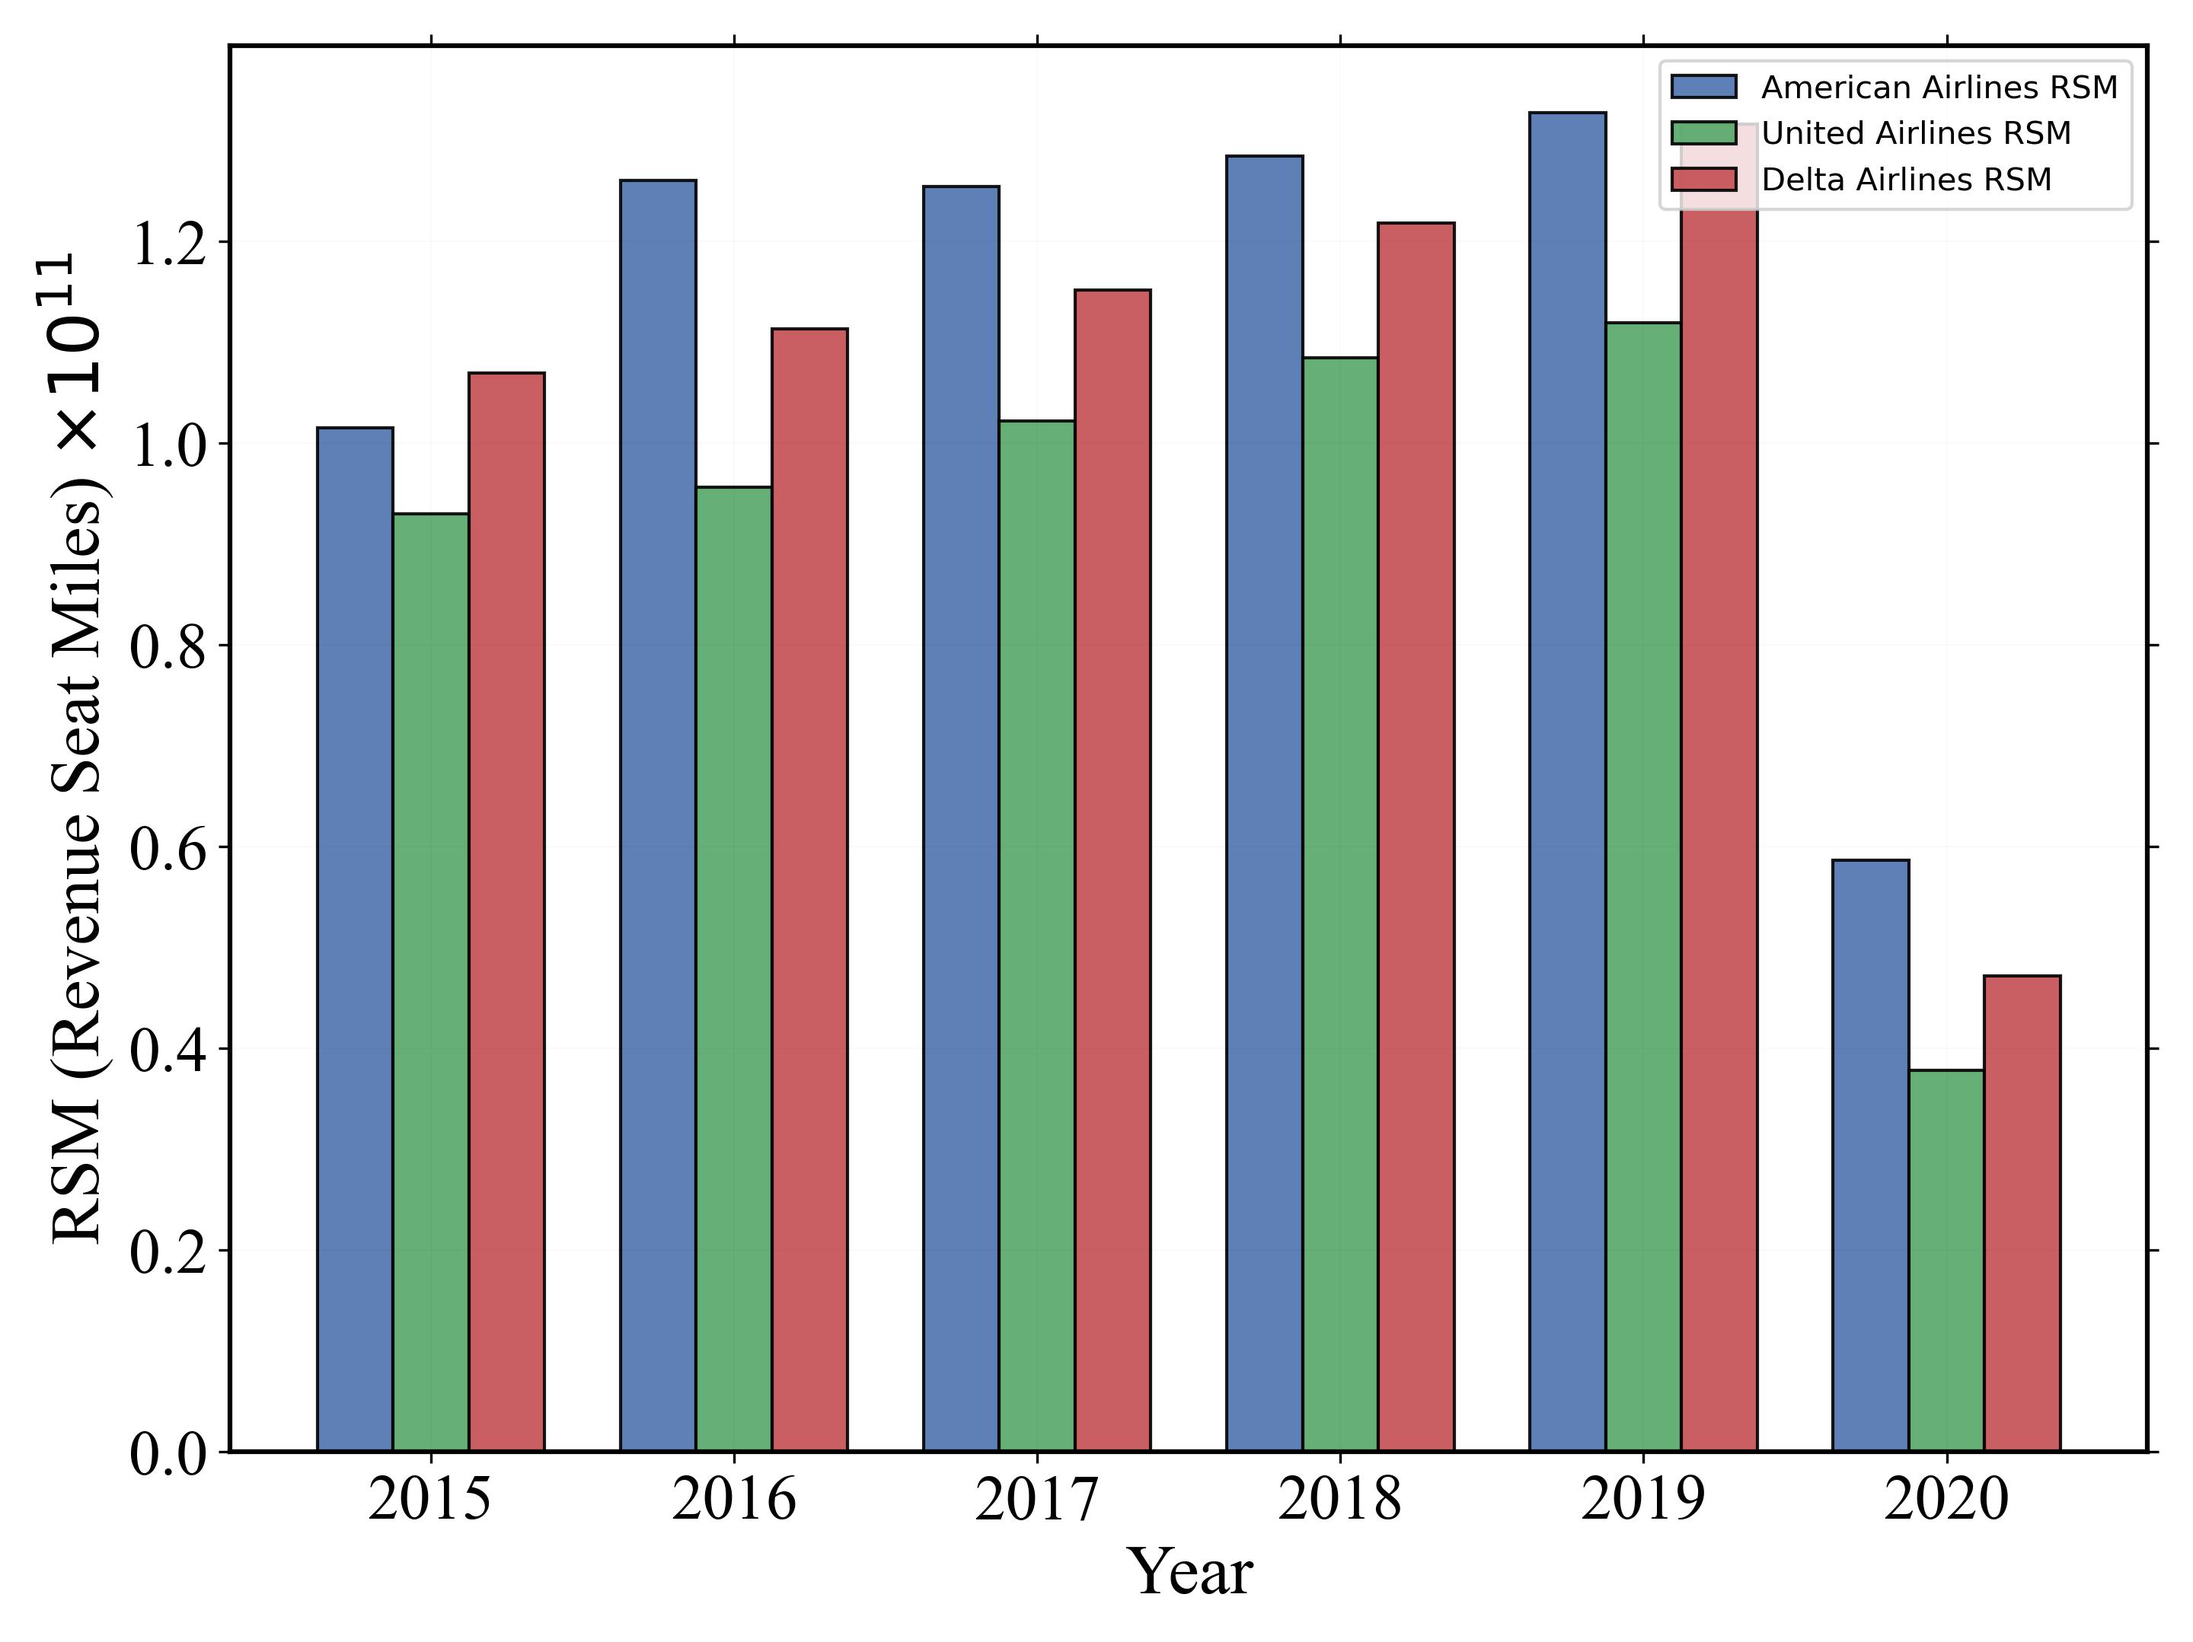
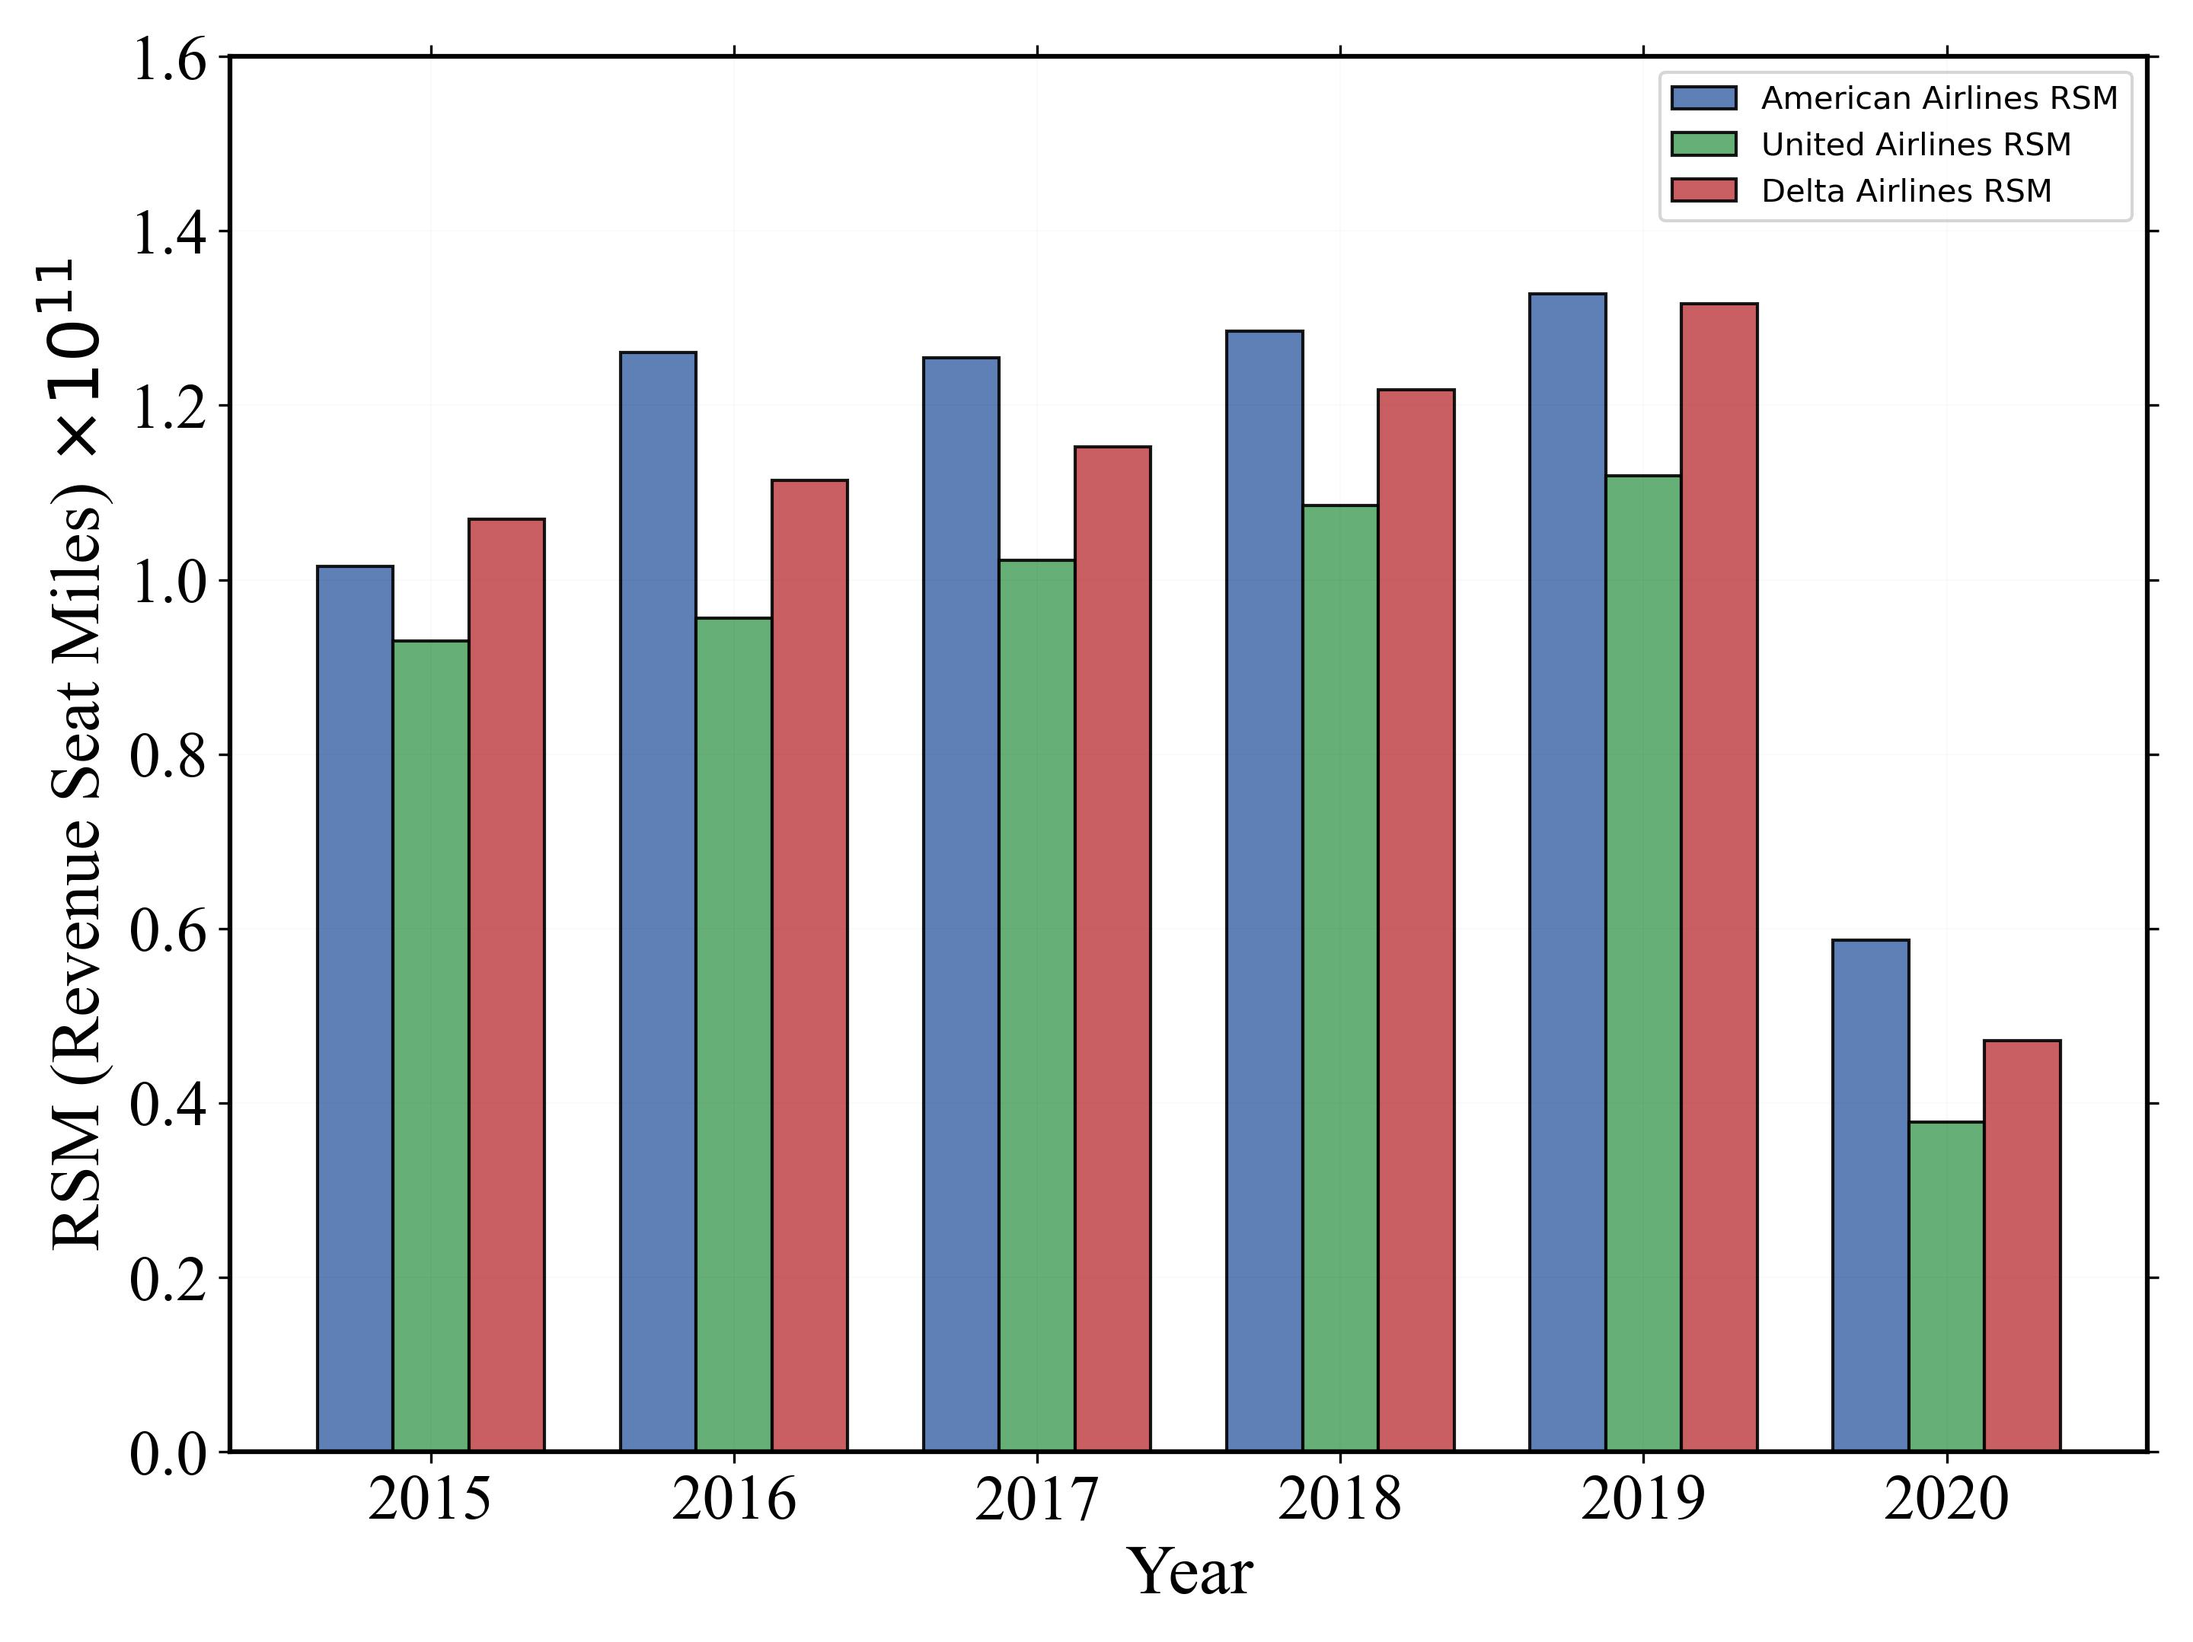
set ylimits

diff --git a/operations.py b/operations.py
@@ -150,6 +150,9 @@ def  plot_rsm_FSC(AA_metrics, UA_metrics, DL_metrics, labels):
     plt.rcParams['figure.dpi'] = 300
     plt.rcParams['savefig.dpi'] = 300
 
+    # Set limits
+    ax2.set_ylim([0,1.6])
+
     # Show the plot
     #plt.title('ASM metrics for FSC per Year')
     plt.tight_layout()
